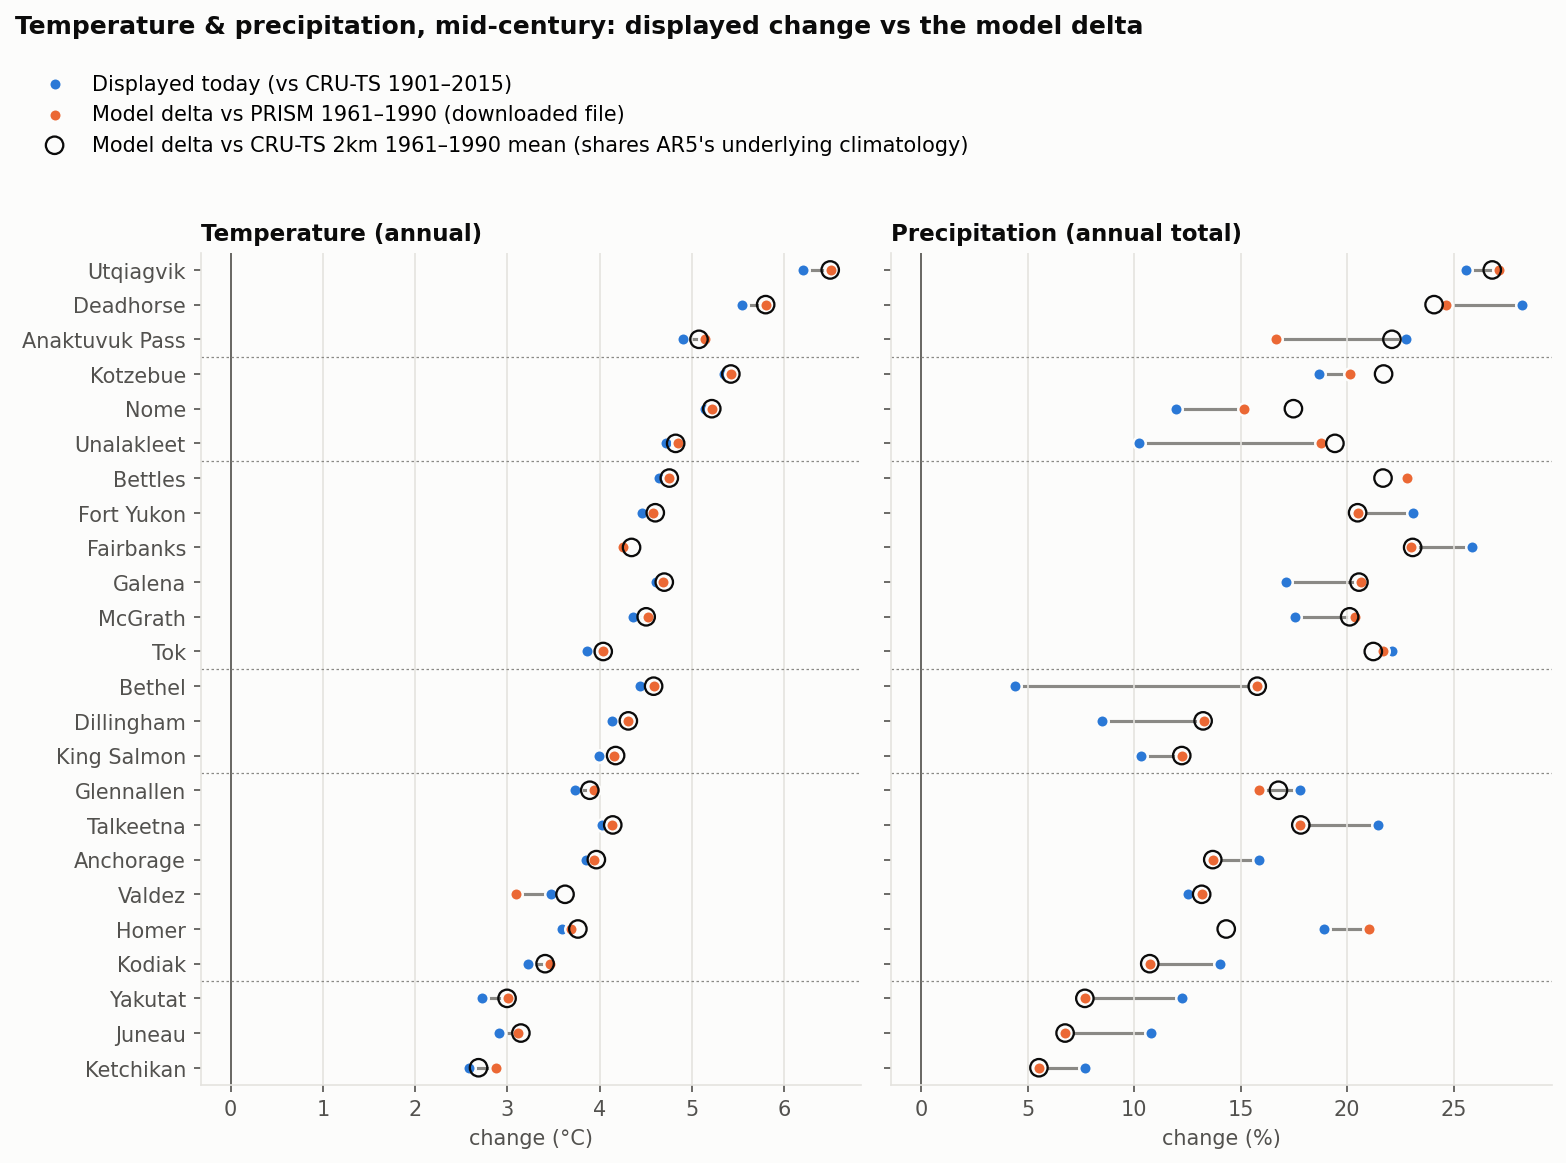
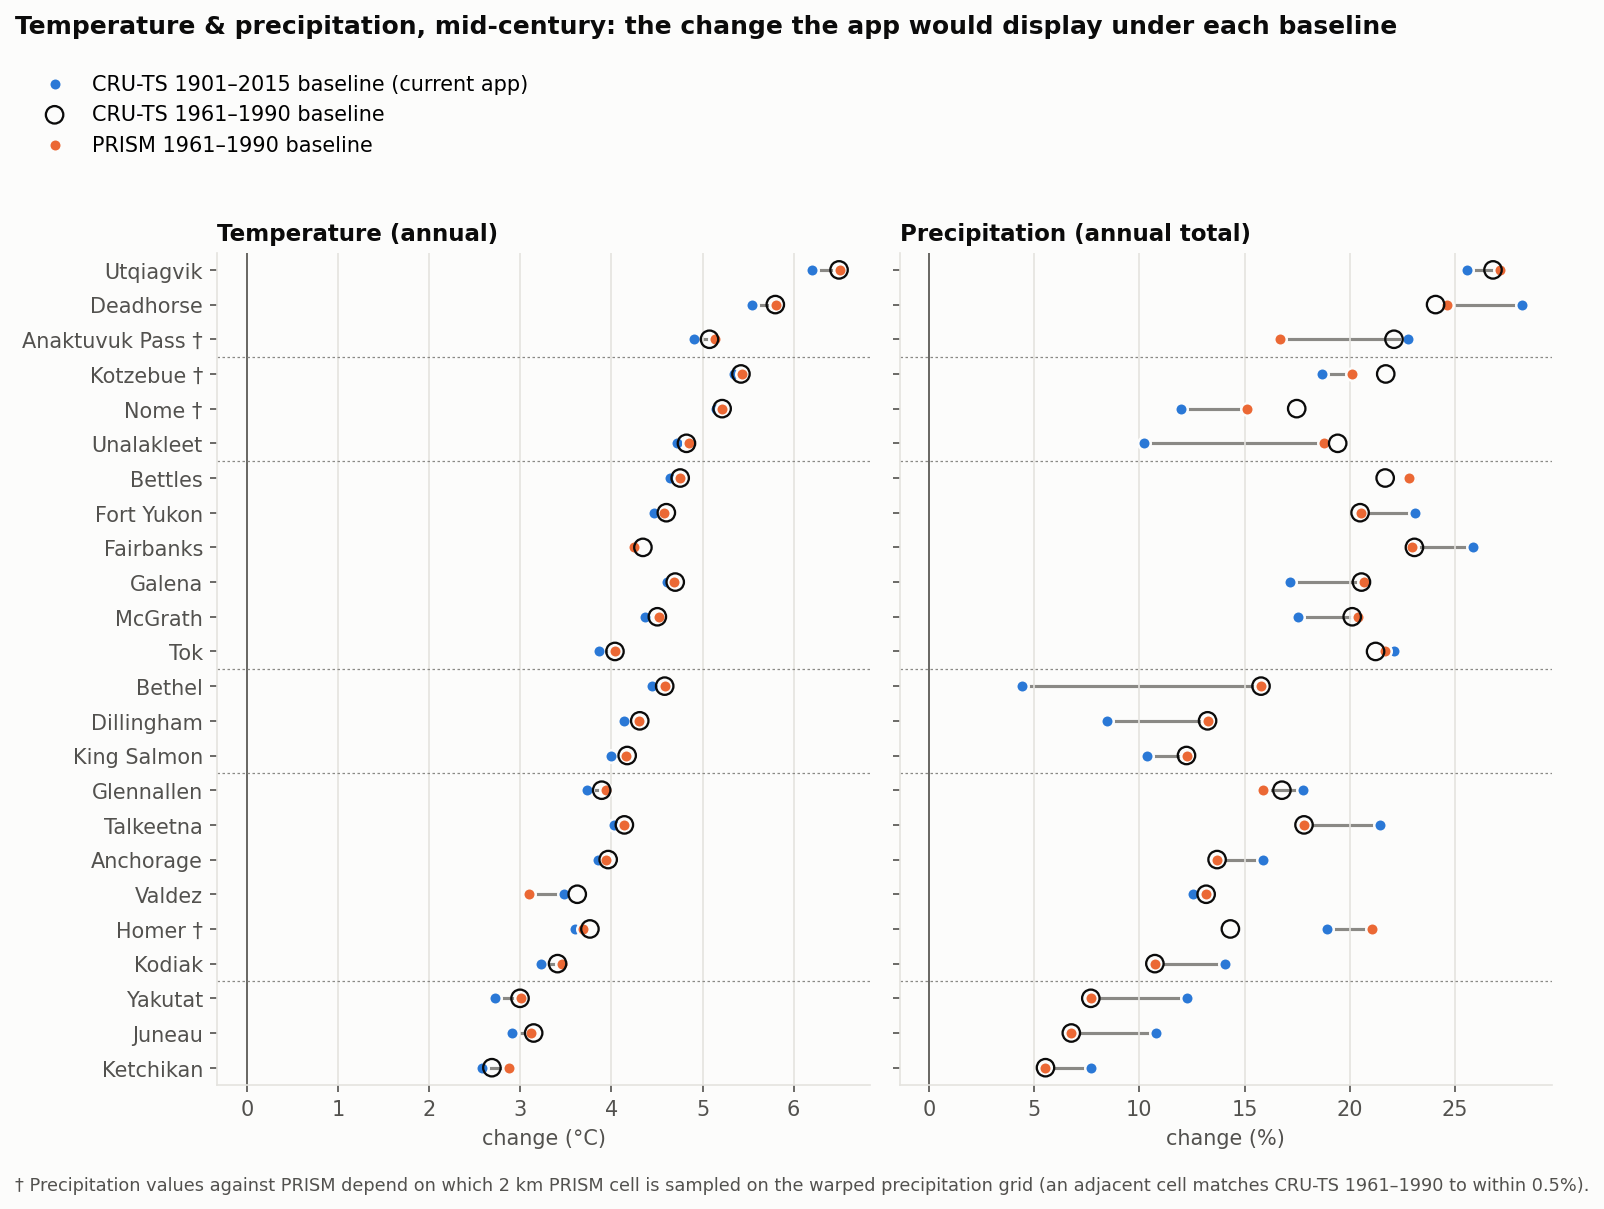
Reframe Fig. 7 as the displayed change under each baseline option
Align its title and legend with the 2-panel baseline figures and flag the
precipitation registration-sensitive sites.

diff --git a/delta_change_method/make_figures.py b/delta_change_method/make_figures.py
@@ -267,19 +267,24 @@ def fig_ar5_changes(sites):
         d = df[df.component == c].set_index("site").reindex(sites)
         ax.hlines(y, d[cur_col], d[prism_col], color=MUTED, lw=1.5, zorder=1)
         ax.scatter(d[cur_col], y, s=36, color=CURRENT, zorder=2, edgecolor=SURFACE, lw=1.2,
-                   label="Displayed today (vs CRU-TS 1901–2015)")
+                   label="CRU-TS 1901–2015 baseline (current app)")
         ax.scatter(d[prism_col], y, s=36, color=DELTA, zorder=3, edgecolor=SURFACE, lw=1.2,
-                   label="Model delta vs PRISM 1961–1990 (downloaded file)")
+                   label="PRISM 1961–1990 baseline")
         ax.scatter(d[cru_col], y, s=70, facecolor="none", edgecolor=INK, lw=1.1, zorder=4,
-                   label="Model delta vs CRU-TS 2km 1961–1990 mean (shares AR5's underlying climatology)")
+                   label="CRU-TS 1961–1990 baseline")
         ax.axvline(0, color=INK2, lw=0.8)
         ax.set_title(title, loc="left")
         ax.set_xlabel(xlabel)
         ax.grid(axis="y", visible=False)
         site_axis(ax, sites)
     handles, labels = axes[0].get_legend_handles_labels()
-    fig.legend(handles, labels, loc="upper left", bbox_to_anchor=(0.01, 0.955), ncol=1)
-    suptitle(fig, "Temperature & precipitation, mid-century: displayed change vs the model delta")
+    order = [0, 2, 1]  # match the 2-panel figures: CRU 1901-2015, CRU 1961-1990, then PRISM
+    fig.legend([handles[i] for i in order], [labels[i] for i in order], loc="upper left",
+               bbox_to_anchor=(0.01, 0.955), ncol=1)
+    axes[0].set_yticklabels([f"{s} †" if s in PR_REGISTRATION_SITES else s for s in sites])
+    fig.text(0.01, -0.015, "† Precipitation values against PRISM depend on which 2 km PRISM cell is sampled on the warped "
+             "precipitation grid (an adjacent cell matches CRU-TS 1961–1990 to within 0.5%).", fontsize=8.5, color=INK2)
+    suptitle(fig, "Temperature & precipitation, mid-century: the change the app would display under each baseline")
     fig.tight_layout(rect=(0, 0, 1, 0.87))
     fig.savefig(FIGS / "fig7_ar5_displayed_vs_delta.png", dpi=150, bbox_inches="tight")
     plt.close(fig)

diff --git a/delta_change_method/REPORT.md b/delta_change_method/REPORT.md
@@ -301,7 +301,13 @@ Along the far southern coast and in the Aleutians, the freezing-index baseline a
 **Fig. 6: Freezing index min/mean/max as the app reports it, current vs delta.**
 ![](figures/fig6_freezing_index_mmm.png)
 
-**Fig. 7: Temperature and precipitation, displayed change vs the model delta (mid-century).** Hollow circles use the CRU-TS 2 km 1961–1990 mean (which shares the AR5 projections' underlying climatology); orange dots use the downloaded PRISM file.
+**Fig. 7: Temperature and precipitation, mid-century: the change the app would display under each baseline.**
+
+- **Blue:** the current CRU-TS 1901–2015 baseline.
+- **Hollow circles:** the CRU-TS 1961–1990 baseline.
+- **Orange:** the PRISM 1961–1990 baseline.
+
+The two 1961–1990 baselines coincide almost everywhere. They split only at Valdez and Ketchikan (temperature, steep terrain) and at the † precipitation sites, where the PRISM value depends on which 2 km cell is sampled.
 ![](figures/fig7_ar5_displayed_vs_delta.png)
 
 **Figs. 8, 9, 11 and 12 compare the two ways to fix the baseline**, each against PRISM 1961–1990: the app's current CRU-TS 1901–2015 mean (left panel) and the CRU-TS 2 km 1961–1990 mean (right panel), on one colour scale. Using PRISM 1961–1990 itself would be the zero line in every panel.
